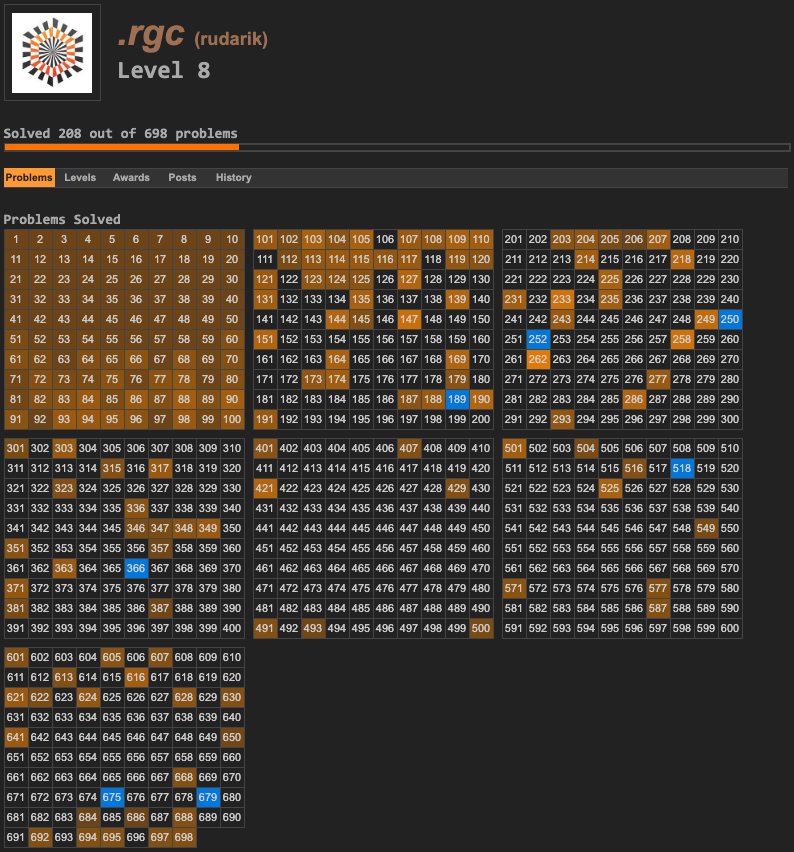
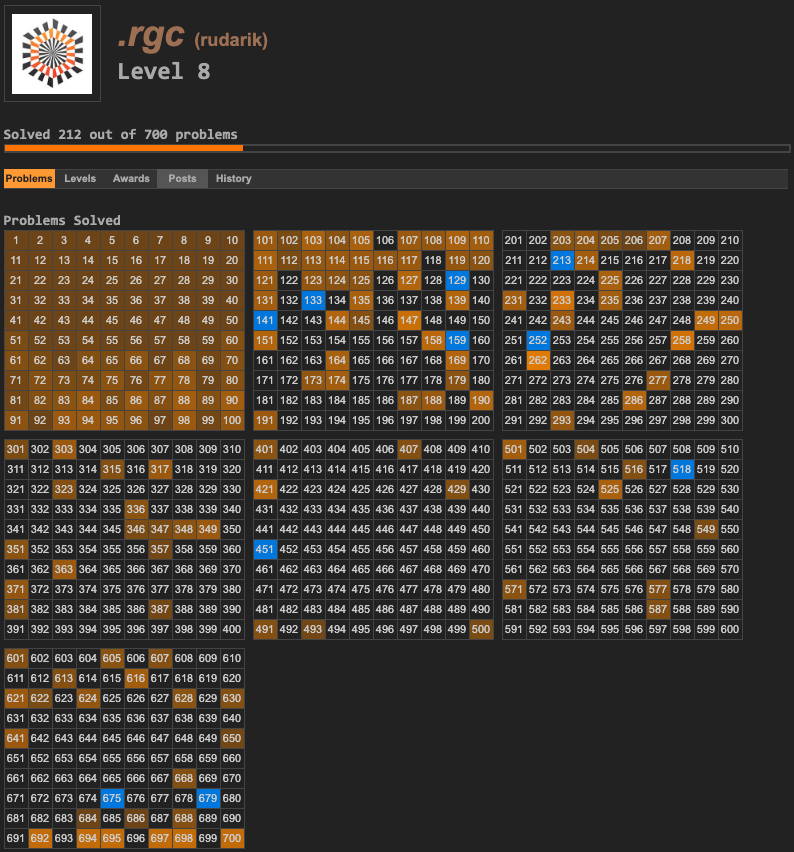
Solved PE700

diff --git a/README.md b/README.md
@@ -43,7 +43,7 @@ Problem 2: "Even Fibonacci numbers", Problem 104: "Pandigital Fibonacci ends"
 Problem 525: "Rolling ellipse"
 
 * [Binomial coefficient](https://en.wikipedia.org/wiki/Binomial_coefficient)
-Problem 203: "Squarefree Binomial Coefficients", Problem 231: "The prime factorisation of binomial coefficients"
+Problem 203: "Squarefree Binomial Coefficients", Problem 158: "Exploring strings for which only one character comes lexicographically after its neighbour to the left", Problem 231: "The prime factorisation of binomial coefficients"
 
 * [Square pyramidal number](https://en.wikipedia.org/wiki/Square_pyramidal_number)
 Problem 401: "Sum of squares of divisors"
@@ -61,7 +61,7 @@ Problem 144: "Investigating multiple reflections of a laser beam"
 Problem 190: "Maximising a weighted product"
 
 * [Dynamic Programming](https://en.wikipedia.org/wiki/Dynamic_programming)
-Problem 191: "Prize Strings", Problem 249: "Prime Subset Sums"
+Problem 191: "Prize Strings", Problem 249: "Prime Subset Sums", Problem 250: "250250"
 
 * [Pythagorean Triple](https://en.wikipedia.org/wiki/Pythagorean_triple)
 Problem 139: "Pythagorean tiles", Problem 218: "Perfect right-angled triangles"
@@ -92,6 +92,9 @@ Problem 607: "Marsh Crossing"
 
 * [Incomplete gamma function](https://en.wikipedia.org/wiki/Incomplete_gamma_function)
 Problem 697: "Randomly Decaying Sequence"
+
+* [Euclidean Algorithm](https://en.wikipedia.org/wiki/Euclidean_algorithm)
+Problem 700: "Eulercoin"
 
 * [Mobius function](https://en.wikipedia.org/wiki/M%C3%B6bius_function)
 
